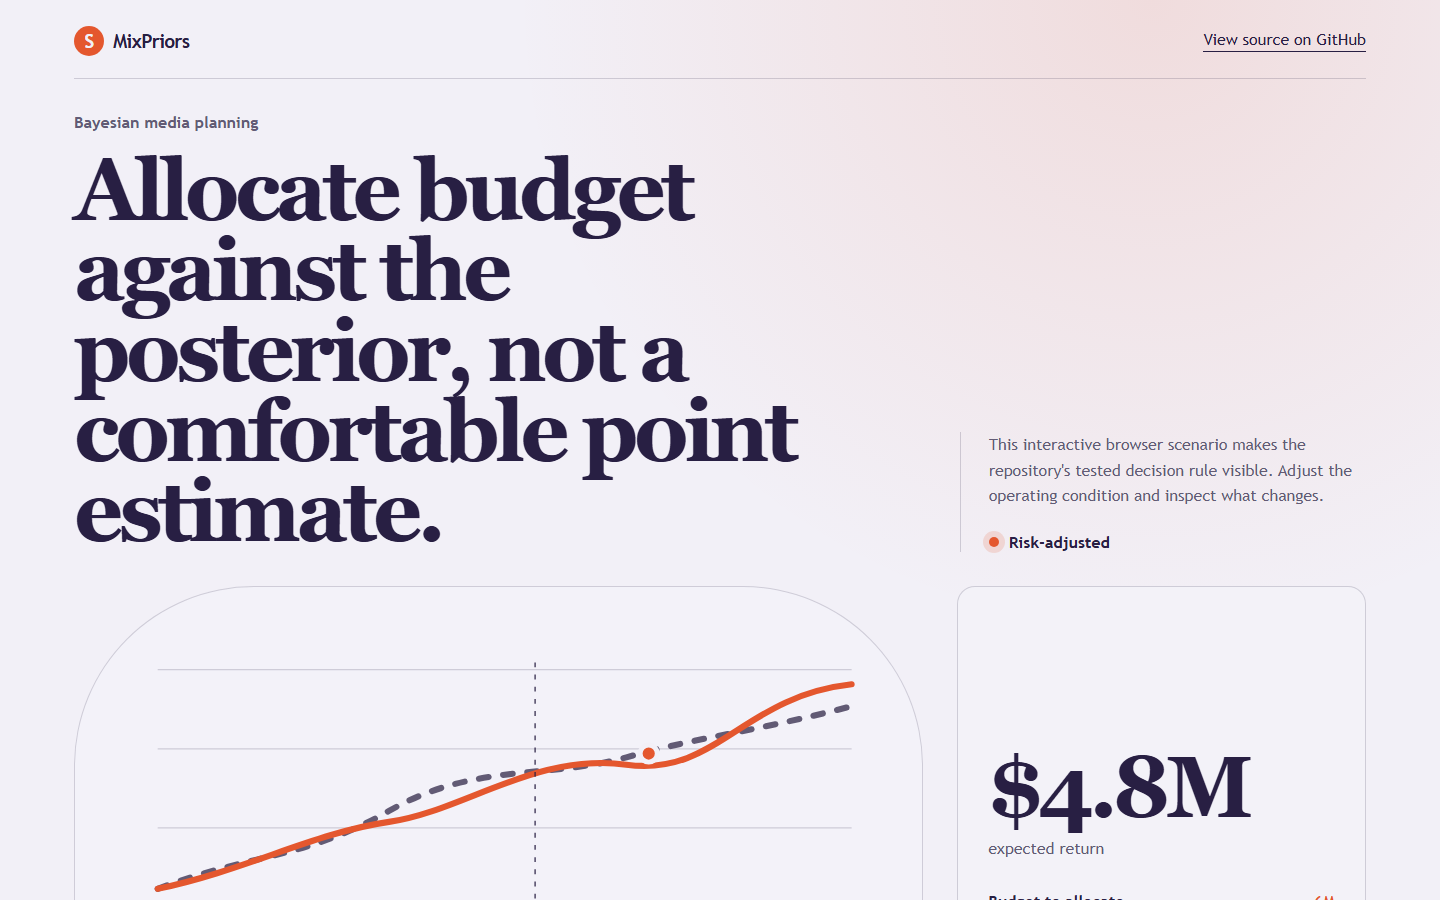
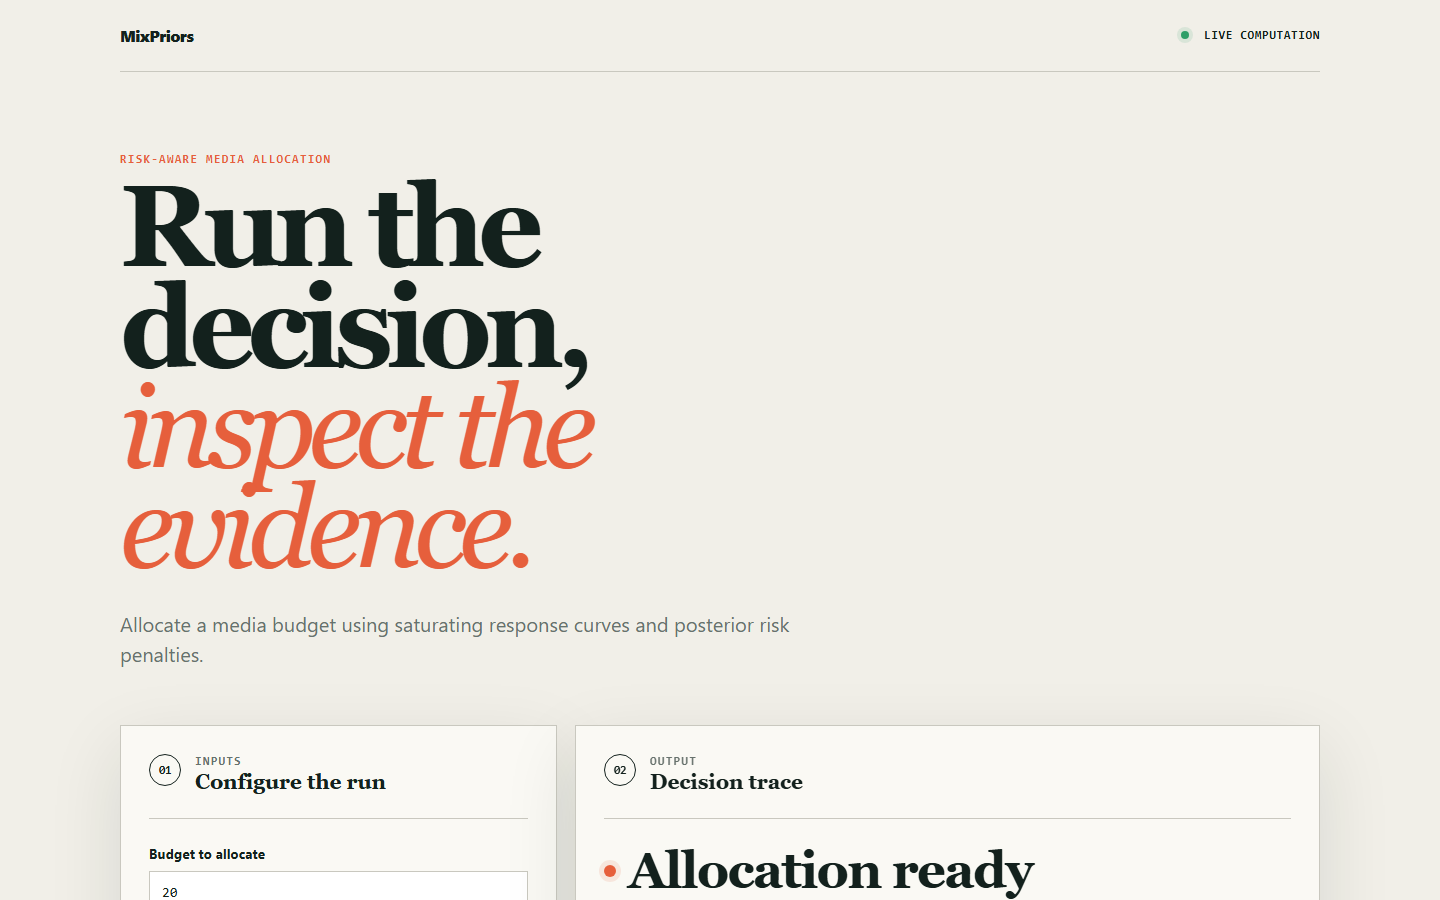
docs: show working deployed application

diff --git a/README.md b/README.md
@@ -6,9 +6,9 @@
 
 [![CI and deployment](https://github.com/SlateGitOrg/mixpriors/actions/workflows/ci.yml/badge.svg?branch=main)](https://github.com/SlateGitOrg/mixpriors/actions/workflows/ci.yml)
 
-[Open the interactive MixPriors demo](https://slategitorg.github.io/mixpriors/)
+[Open the working MixPriors application](https://slategitorg.github.io/mixpriors/)
 
-The deployed interface uses a deterministic offline scenario to make the repository's tested decision rule visible without external services or private data.
+This deployed application runs the project's decision workflow in the browser. Change the inputs, run the analysis, and inspect the computed metrics and decision trace.
 
 ### Desktop
 
